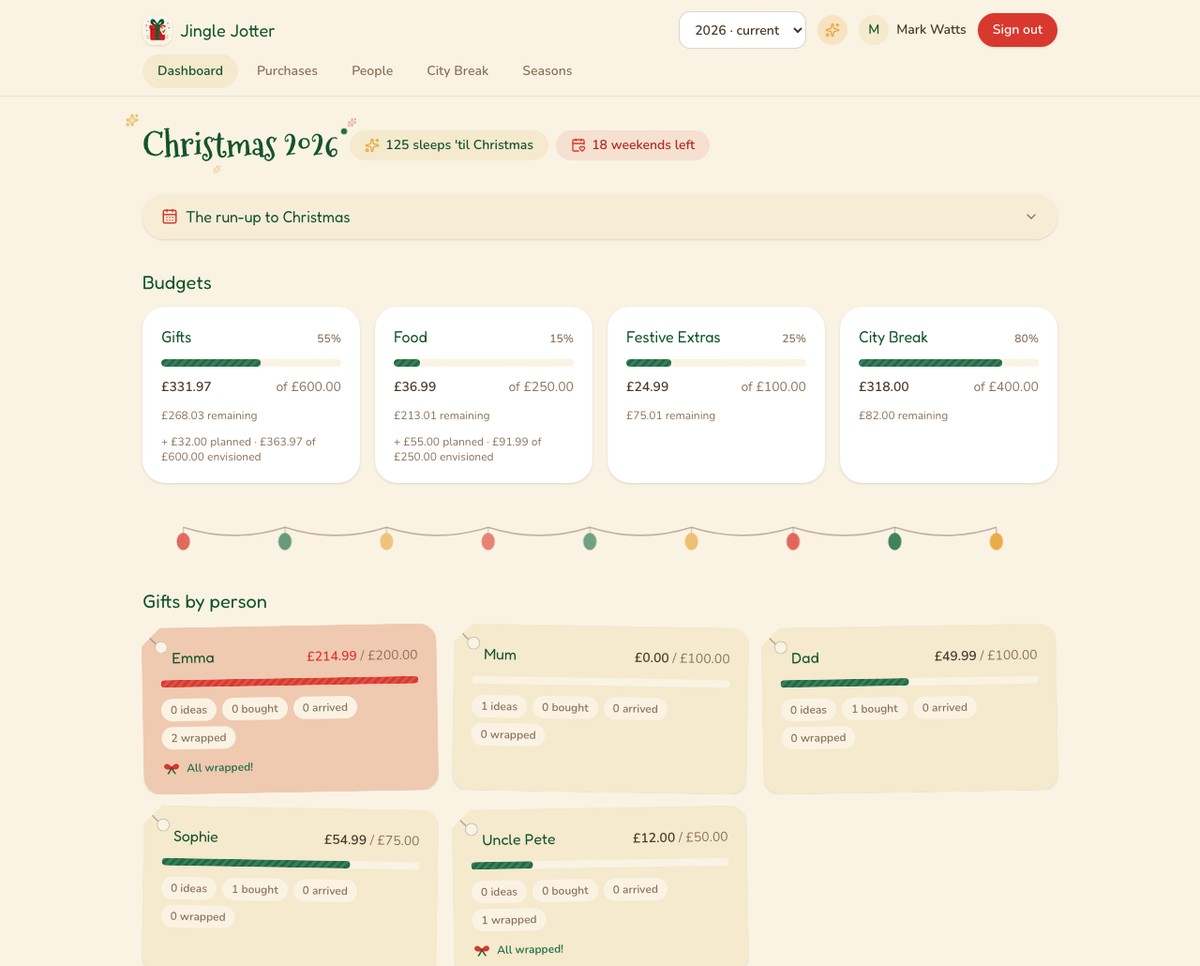
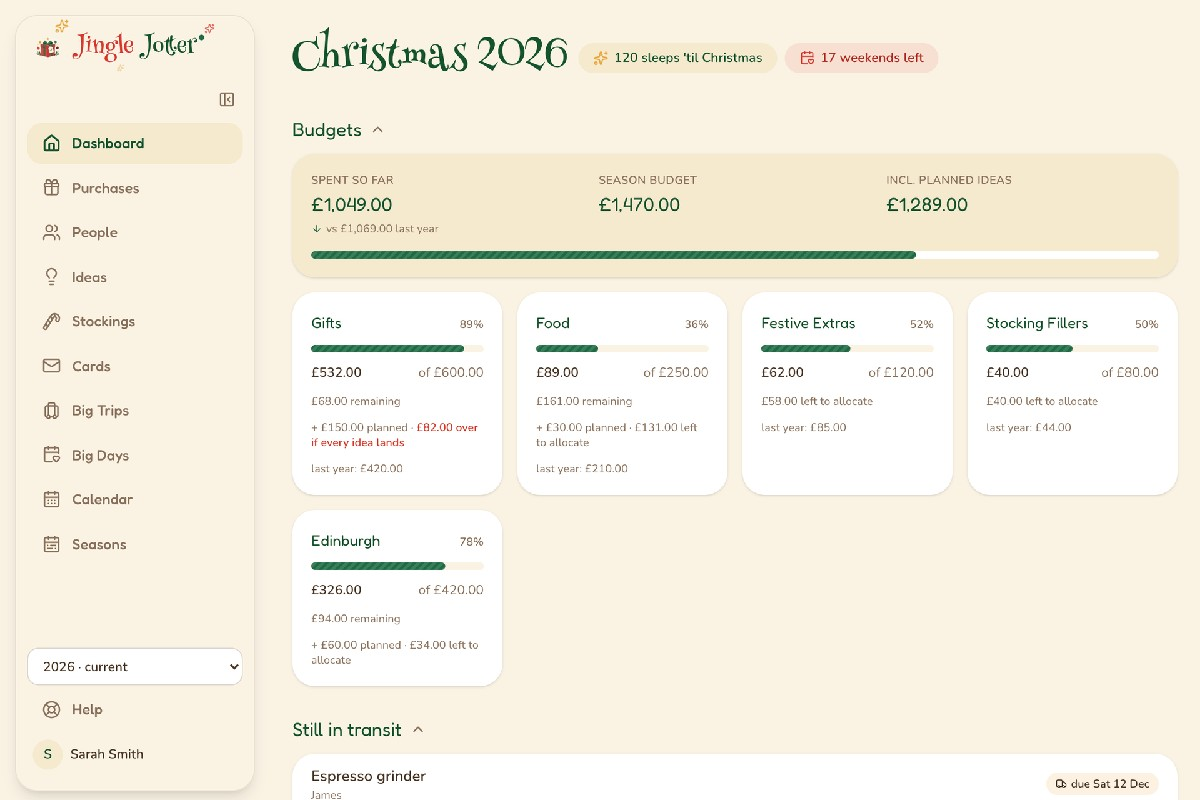
Refresh Jingle Jotter card with the current sidebar-nav dashboard
Old crop predated the sidebar nav; source it from the app's own /help
guide screenshots (Smith demo household) like the app README now does.

diff --git a/site/index.html b/site/index.html
@@ -205,7 +205,7 @@
   </a>
 
   <a class="card" href="https://staging.jinglejotter.com" style="--accent: #d65f52">
-    <div class="shot"><img src="/assets/jinglejotter.jpg" alt="Jingle Jotter Christmas dashboard" width="1200" height="966"></div>
+    <div class="shot"><img src="/assets/jinglejotter.jpg" alt="Jingle Jotter Christmas dashboard" width="1200" height="800"></div>
     <div class="meta">
       <span class="mark">JJ</span>
       <span class="name">Jingle Jotter</span>
